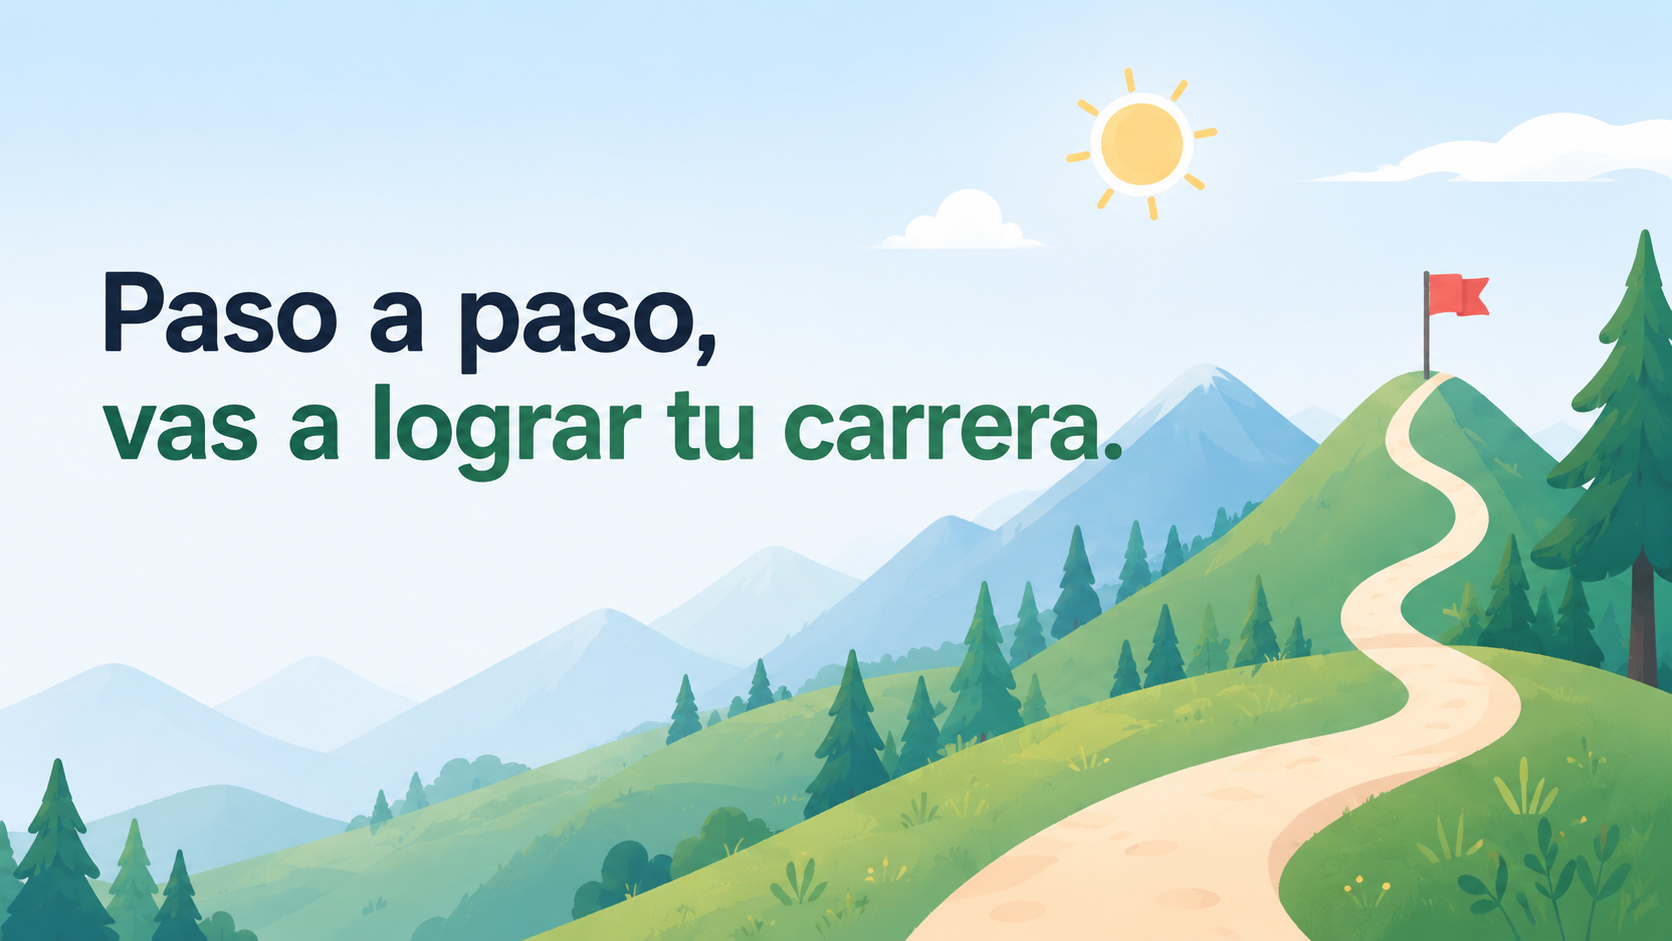
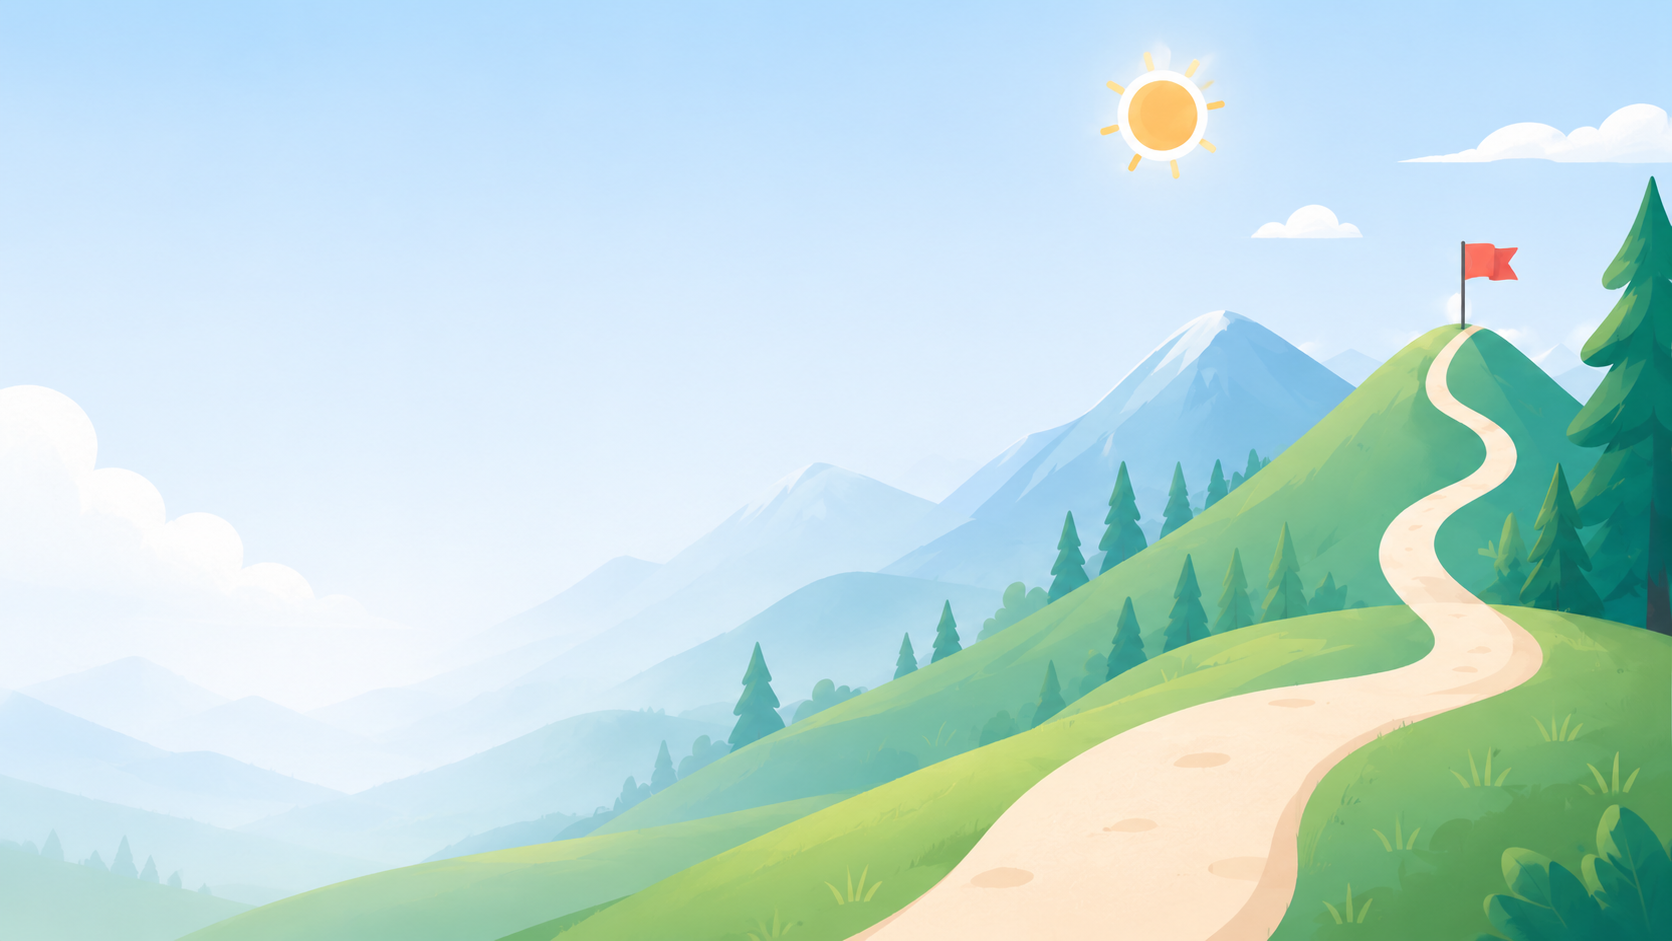
Simplificar dashboard visual

diff --git a/src/App.jsx b/src/App.jsx
@@ -588,8 +588,8 @@ function Dashboard({ data, stats, allThemes, setView, openModal, updateData, que
     <div className="space-y-6">
       <section className="relative min-h-[500px] overflow-hidden rounded-lg bg-cover bg-[center_45%] shadow-soft" style={{ backgroundImage: "url('/appstudios-dashboard.png')" }}>
         <div className="absolute inset-0 bg-gradient-to-r from-sky-950/10 via-transparent to-transparent" />
-        <div className="relative grid min-h-[500px] content-center gap-5 p-5 md:p-7 xl:grid-cols-[0.92fr_0.78fr]">
-          <div className="max-w-2xl rounded-lg border border-white/45 bg-sky-950/12 p-5 text-white shadow-soft backdrop-blur-[5px] md:p-7">
+        <div className="relative flex min-h-[500px] items-center p-5 md:p-8">
+          <div className="w-full max-w-xl rounded-lg border border-white/35 bg-sky-950/10 p-5 text-white shadow-soft backdrop-blur-[3px] md:p-7">
             <p className="text-sm font-bold uppercase tracking-[0.22em] text-[#1f5d55]">Dashboard principal</p>
             <h1 className="mt-3 max-w-2xl text-4xl font-black leading-tight drop-shadow md:text-6xl">AppStudios</h1>
             <div className="mt-5 h-1 w-16 rounded-full bg-emerald-300" />
@@ -601,12 +601,6 @@ function Dashboard({ data, stats, allThemes, setView, openModal, updateData, que
               <DashboardAction icon={ListChecks} label="Nueva tarea" tone="blue" onClick={() => openModal({ type: "task" })} />
               <DashboardAction icon={Paperclip} label="Nuevo recurso" tone="purple" onClick={() => openModal({ type: "resource" })} />
             </div>
-          </div>
-          <div className="grid content-center gap-3 sm:grid-cols-2">
-            <DashboardStat icon={ListChecks} label="Tareas pendientes" value={stats.pendingTasks} accent="bg-blue-500" iconClass="bg-blue-50 text-blue-600" />
-            <DashboardStat icon={BookOpen} label="Temas completados" value={`${stats.completedThemes}/${stats.totalThemes}`} accent="bg-emerald-500" iconClass="bg-emerald-50 text-emerald-600" />
-            <DashboardStat icon={Network} label="Asignaturas" value={data.subjects.length} accent="bg-amber-500" iconClass="bg-amber-50 text-amber-600" />
-            <DashboardStat icon={LinkIcon} label="Recursos" value={data.resources.length} accent="bg-violet-500" iconClass="bg-violet-50 text-violet-600" />
           </div>
         </div>
       </section>
@@ -2874,19 +2868,6 @@ function DashboardAction({ icon: Icon, label, tone, onClick }) {
     <button onClick={onClick} className={`inline-flex h-14 items-center justify-center gap-2 rounded-lg bg-white/72 px-3 text-sm font-black shadow-sm ring-1 backdrop-blur-[3px] transition ${toneClass}`}>
       <Icon size={21} /> {label}
     </button>
-  );
-}
-
-function DashboardStat({ icon: Icon, label, value, accent, iconClass }) {
-  return (
-    <article className="min-h-36 rounded-lg border border-white/45 bg-white/24 p-4 text-[#10213d] shadow-soft backdrop-blur-[5px]">
-      <span className={`grid h-11 w-11 place-items-center rounded-full shadow-sm ${iconClass}`}>
-        <Icon size={22} />
-      </span>
-      <p className="mt-4 text-sm font-black text-slate-700">{label}</p>
-      <span className={`mt-3 block h-1 w-7 rounded-full ${accent}`} />
-      <p className="mt-3 text-3xl font-black">{value}</p>
-    </article>
   );
 }
 